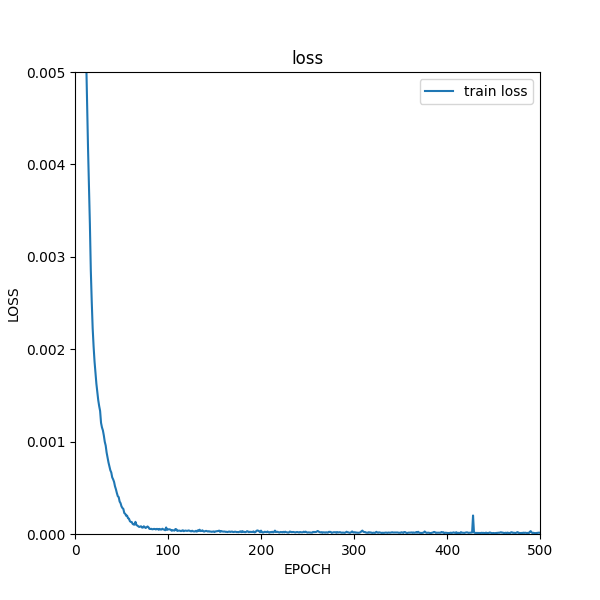
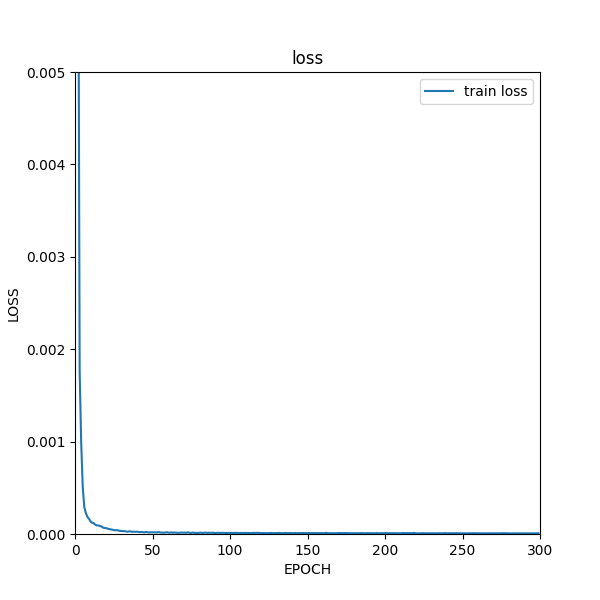
多音階データ更新
音階データを移植し、データ構造用にCNNを書き換えました

Changed region(s): [[0.15, 0.78, 0.9, 0.93], [0.12, 0.12, 0.18, 0.87]]

diff --git a/CNN.py b/CNN.py
@@ -6,12 +6,13 @@ from torch.utils.data import DataLoader
 import torchvision
 import matplotlib.pyplot as plt
 from ReRASy import Dataset
+from tqdm import tqdm
 import numpy as np
 
 BATCH_SIZE = 32
 WEIGHT_DECAY = 0.005
 LEARNING_RATE = 0.0003
-EPOCH = 500
+EPOCH = 300
 
 # trans = torchvision.transforms.Compose([torchvision.transforms.ToTensor(), torchvision.transforms.Normalize((0,), (1,))])
 trans = torchvision.transforms.Compose([torchvision.transforms.ToTensor()])
@@ -22,7 +23,7 @@ trainloader = DataLoader(trainset, batch_size=BATCH_SIZE, shuffle=True, num_work
 testset = torchvision.datasets.MNIST(root=PATH, train=False, download=True, transform=trans)
 testloader = DataLoader(testset, batch_size=BATCH_SIZE, shuffle=False, num_workers=0)
 """
-train_dataset = Dataset.RecDataset(file_list=glob.glob("ImageData/**/**/Data/**/*.png"), transform=trans)
+train_dataset = Dataset.RecDataset(file_list=glob.glob("ImageData/**/A6/img/**/**/*.png"), transform=trans)
 trainloader = DataLoader(train_dataset, batch_size=BATCH_SIZE, shuffle=True, num_workers=0)
 
 class Net(nn.Module):
@@ -32,10 +33,11 @@ class Net(nn.Module):
         self.sigmoid = nn.Sigmoid()
         self.pool = nn.MaxPool2d(2, stride=2)
 
-        self.conv1 = nn.Conv2d(1, 16, 15)
-        self.conv2 = nn.Conv2d(16, 32, 10)
+        self.conv1 = nn.Conv2d(1, 32, 15)
+        self.conv2 = nn.Conv2d(32, 32, 16)
+        self.conv3 = nn.Conv2d(32, 64, 2)
 
-        self.fc1 = nn.Linear(32 * 24 * 24, 1)
+        self.fc1 = nn.Linear(64 * 10 * 10, 1)
         self.fc2 = nn.Linear(120, 1)
 
     def forward(self, x):
@@ -43,6 +45,9 @@ class Net(nn.Module):
         x = self.relu(x)
         x = self.pool(x)
         x = self.conv2(x)
+        x = self.relu(x)
+        x = self.pool(x)
+        x = self.conv3(x)
         x = self.relu(x)
         x = self.pool(x)
         x = x.view(x.size()[0], -1)
@@ -72,7 +77,7 @@ for epoch in range(EPOCH):
     t = 0
 
     net.train()
-    for (inputs, labels) in trainloader:
+    for (inputs, labels) in tqdm(trainloader):
         #inputs = torch.DoubleTensor(inputs)
         #labels = torch.DoubleTensor(labels)
         inputs, labels = inputs.to(device), labels.to(device)
@@ -84,7 +89,7 @@ for epoch in range(EPOCH):
         loss.backward()
         optimizer.step()
         sum_loss += loss.item() * labels.size(0)
-        sum_mae += mae_batch.item() * labels.size(0)
+        sum_mae += mae_batch.item() * labels.size(0) * 0.1
         t += labels.size(0)
     print("train loss:{:.7g}  train mae:{:.7g}".format(sum_loss / len(trainloader.dataset), sum_mae / len(trainloader.dataset)))
     train_loss_value.append(sum_loss / len(trainloader.dataset))

diff --git a/Dataset.py b/Dataset.py
@@ -19,8 +19,9 @@ class RecDataset(data.Dataset):
         img_path = self.file_list[index]
         img = np.array(Image.open(img_path))
         img = self.transform(img)
-        img = img / 255
-        label = (float(img_path[27: 31]) - 0.52) / 0.09
+        img = img / 255.0
+        label = (float(img_path[22:27]) - 0.5) / 0.1
+        #print(label)
         #label = (float(img_path[27:31]))
         label = np.array(label)
         return img, label
